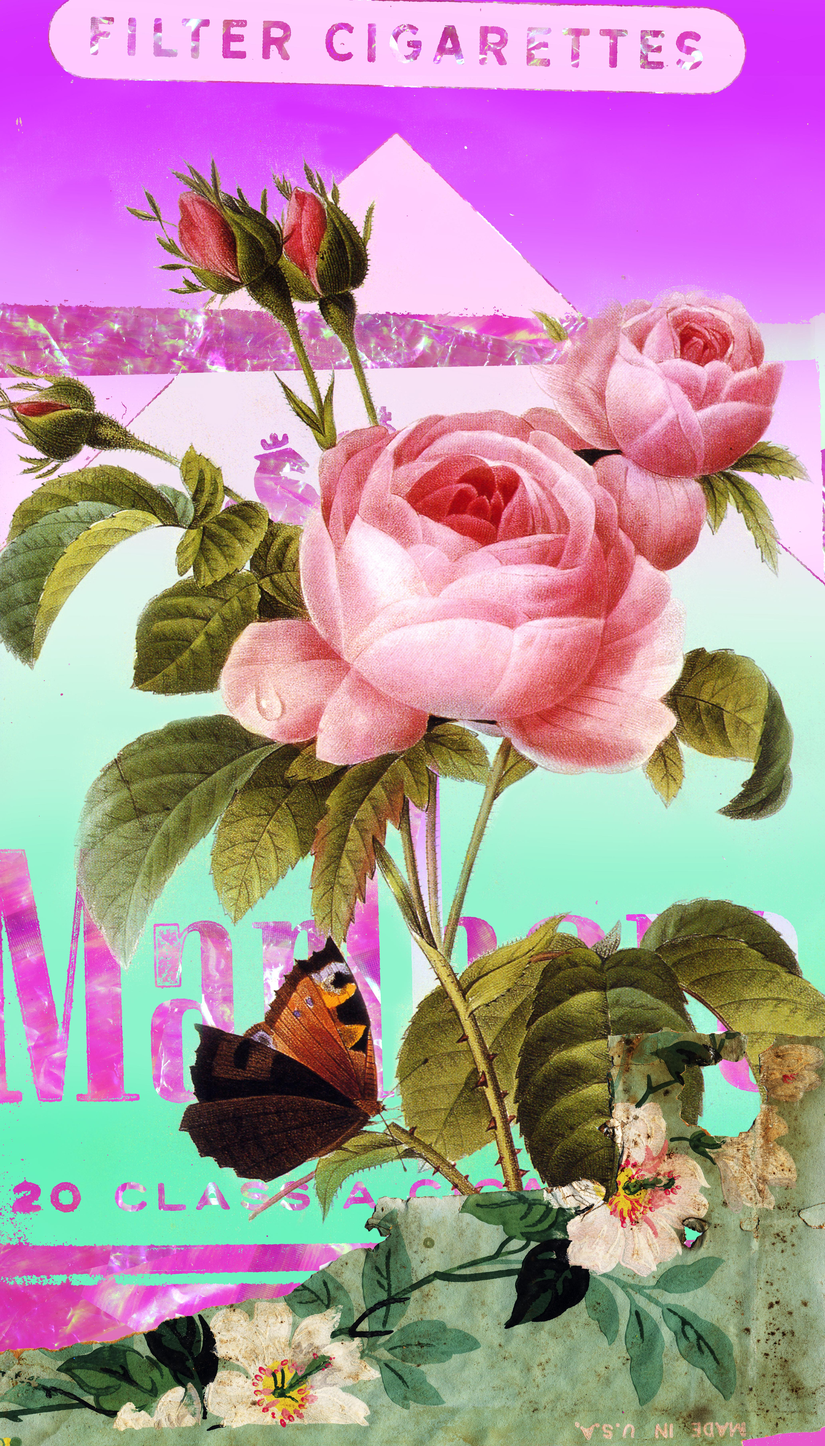
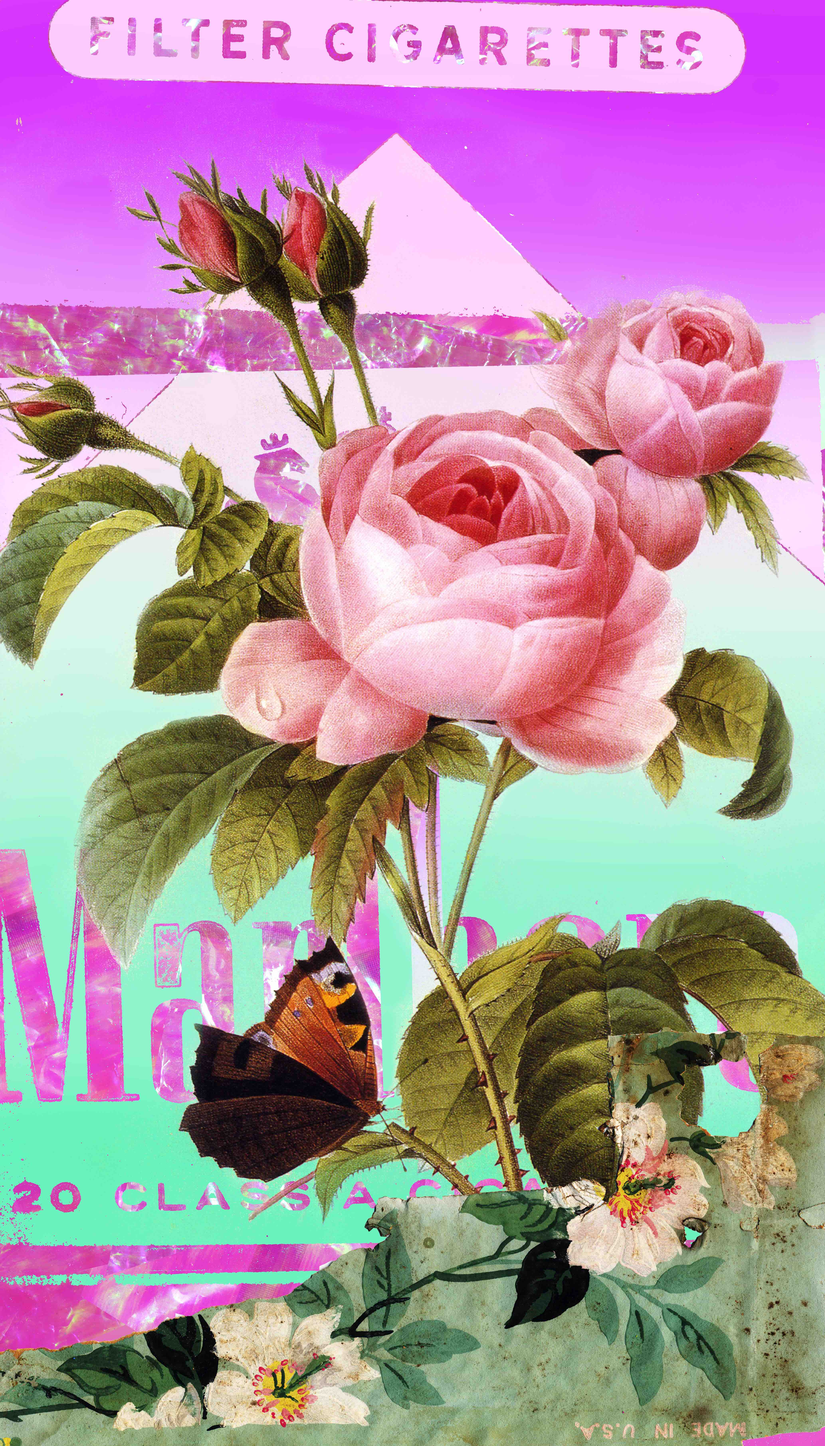
reducing file sizes for artwork and adjusting carousel as well as adding media queries for formatting

diff --git a/src/Pages/Portfolio/Portfolio.component.js b/src/Pages/Portfolio/Portfolio.component.js
@@ -12,7 +12,7 @@ export default class Portfolio extends Component {
         return (
             <div>
                 <h2 className="pageHeading">Portfolio</h2>
-                <h4 class="description text-center col-md-8 offset-md-2 col-sm-12">Click on the title below each image to launch the live site, or the GitHub link to view the repository!</h4>
+                <h4 class="description text-center col-md-8 offset-md-2 col-sm-12">Click on the title below each image to launch the live site, or the GitHub link to view the code!</h4>
                 <div id="carouselExampleIndicators" class="carousel slide container" data-interval="false" data-ride="carousel">
                     <ol class="carousel-indicators webDevIndicators">
                         <li data-target="#carouselExampleIndicators" data-slide-to="0" class="active"></li>
@@ -26,9 +26,9 @@ export default class Portfolio extends Component {
                         <div class="carousel-item webDev active">
                             <img class="portfolioImage d-block w-100" src={aggretsuko} alt="First slide" />
                             <div class="portfolioContent text-center">
-                                <a class="links" href="https://kat9513.github.io/TriviaGame/"><h2>Trivia Game</h2></a>
+                                <a class="links" href="https://kat9513.github.io/TriviaGame/" target="_blank"><h2>Trivia Game</h2></a>
                                 <p class="links text-center">
-                                    <a class="links" href="https://github.com/kat9513/TriviaGame">GitHub</a>
+                                    <a class="links" href="https://github.com/kat9513/TriviaGame" target="_blank">GitHub</a>
                                     <br />
                                     <p class="appDescription col-md-6 offset-md-3 col-sm-12">
                                     A Trivia game using JavaScript for the logic and jQuery to manipulate the HTML based on the Netflix series Aggretsuko.
@@ -39,9 +39,9 @@ export default class Portfolio extends Component {
                         <div class="carousel-item webDev">
                             <img class="portfolioImage d-block w-100" src={artsy} alt="Second slide" />
                             <div class="portfolioContent text-center">
-                                <a class="links" href="https://kat9513.github.io/GIPHY_APP/"><h2>Artsy</h2></a>
+                                <a class="links" href="https://kat9513.github.io/GIPHY_APP/" target="_blank"><h2>Artsy</h2></a>
                                 <p class="links text-center">
-                                    <a class="links" href="https://github.com/kat9513/GIPHY_APP">GitHub</a>
+                                    <a class="links" href="https://github.com/kat9513/GIPHY_APP" target="_blank">GitHub</a>
                                     <br/>
                                     <p class="appDescription col-md-6 offset-md-3 col-sm-12">
                                     An app that utilizes the GIPHY API to create a dynamic web page that populates with gifs of famous artist using JavaScript and jQuery to update the HTML on the site.
@@ -52,9 +52,9 @@ export default class Portfolio extends Component {
                         <div class="carousel-item webDev">
                             <img class="portfolioImage d-block w-100" src={burger} alt="Third slide" />
                             <div class="portfolioContent text-center">
-                                <a class="links" href="https://tranquil-island-56945.herokuapp.com/burgers"><h2>Eat da Burger!</h2></a>
+                                <a class="links" href="https://tranquil-island-56945.herokuapp.com/burgers" target="_blank"><h2>Eat da Burger!</h2></a>
                                 <p class="links text-center">
-                                    <a class="links" href="https://github.com/kat9513/burger">GitHub</a>
+                                    <a class="links" href="https://github.com/kat9513/burger" target="_blank">GitHub</a>
                                     <br />
                                     <p class="appDescription col-md-6 offset-md-3 col-sm-12">
                                     Eat-Da-Burger! is a restaurant app that lets users input the names of burgers they'd like to eat.
@@ -67,9 +67,9 @@ export default class Portfolio extends Component {
                         <div class="carousel-item webDev">
                             <img class="portfolioImage d-block w-100" src={crystal} alt="Third slide" />
                             <div class="portfolioContent text-center">
-                                <a class="links" href="https://kat9513.github.io/Crystal-Game/index.html"><h2>Crystal Collector</h2></a>
+                                <a class="links" href="https://kat9513.github.io/Crystal-Game/index.html" target="_blank"><h2>Crystal Collector</h2></a>
                                 <p class="links">
-                                    <a class="links" href="https://github.com/kat9513/Crystal-Game">GitHub</a>
+                                    <a class="links" href="https://github.com/kat9513/Crystal-Game" target="_blank">GitHub</a>
                                     <br />
                                     <p class="appDescription col-md-6 offset-md-3 col-sm-12">
                                     Crystal Collector is a number game written using HTML, CSS, JavaScript, and Bootstrap.</p>
@@ -80,9 +80,9 @@ export default class Portfolio extends Component {
                         <div class="carousel-item webDev">
                             <img class="portfolioImage d-block w-100" src={geo} alt="Third slide" />
                             <div class="portfolioContent text-center">
-                                <a class="links" href="https://kat9513.github.io/GeoCuisine/?"><h2>GeoCuisine</h2></a>
+                                <a class="links" href="https://kat9513.github.io/GeoCuisine/?" target="_blank"><h2>GeoCuisine</h2></a>
                                 <p class="links">
-                                    <a class="links" href="https://github.com/kat9513/fixingProject1">GitHub</a>
+                                    <a class="links" href="https://github.com/kat9513/fixingProject1" target="_blank">GitHub</a>
                                     <br />
                                     <p class="appDescription col-md-6 offset-md-3 col-sm-12">
                                     A web app that allows users to search for recipes based on ingredients they already have in their fridge and pantry in an effort to prevent food waste
@@ -95,9 +95,9 @@ export default class Portfolio extends Component {
                         <div class="carousel-item webDev">
                             <img class="portfolioImage d-block w-100" src={psychic} alt="Third slide" />
                             <div class="portfolioContent text-center">
-                                <a class="links" href="https://kat9513.github.io/Psychic-Game/"><h2>Psychic Game</h2></a>
+                                <a class="links" href="https://kat9513.github.io/Psychic-Game/" target="_blank"><h2>Psychic Game</h2></a>
                                 <p class="links">
-                                    <a class="links" href="https://github.com/kat9513/Psychic-Game">GitHub</a>
+                                    <a class="links" href="https://github.com/kat9513/Psychic-Game" target="_blank">GitHub</a>
                                     <br />
                                     <p class="appDescription col-md-6 offset-md-3 col-sm-12">
                                     The app randomly picks a letter, and the user has to guess which letter the app chose.

diff --git a/src/Pages/Artwork/Artwork.component.js b/src/Pages/Artwork/Artwork.component.js
@@ -1,18 +1,18 @@
 import React, { Component } from 'react';
 
-const Aquarium = require("../../Assets/Images/ArtWork/Aquarium.jpg")
-const Ravine = require("../../Assets/Images/ArtWork/ARavineInTheEarth.jpg")
-const BadGirl = require("../../Assets/Images/ArtWork/BadGirl.JPG")
-const BigHead = require("../../Assets/Images/ArtWork/BigHead.jpg")
+const Aquarium = require("../../Assets/Images/ArtWork/Aquarium2.jpg")
+const Ravine = require("../../Assets/Images/ArtWork/ARavineInTheEarth2.jpg")
+const BadGirl = require("../../Assets/Images/ArtWork/BadGirl2.jpg")
+const BigHead = require("../../Assets/Images/ArtWork/BigHead2.jpg")
 const Blam = require("../../Assets/Images/ArtWork/blam(1).png")
-const Blue = require("../../Assets/Images/ArtWork/BlueBonnet.jpg")
-const Bouqet = require("../../Assets/Images/ArtWork/Bouqet.jpg")
-const Cartoon = require("../../Assets/Images/ArtWork/CartoonStudy.JPG")
-const frog = require("../../Assets/Images/ArtWork/deadfrogg.jpg")
-const flowers = require("../../Assets/Images/ArtWork/FlowersMAC.JPG")
-const FlutterBy = require("../../Assets/Images/ArtWork/FlutterBy.JPG")
-const Hibiscus = require("../../Assets/Images/ArtWork/Hibiscus.JPG")
-const love = require("../../Assets/Images/ArtWork/LoveDroubt.jpg")
+const Blue = require("../../Assets/Images/ArtWork/BlueBonnet2.jpg")
+const Bouqet = require("../../Assets/Images/ArtWork/Bouqet2.jpg")
+const Cartoon = require("../../Assets/Images/ArtWork/CartoonStudy2.jpg")
+const frog = require("../../Assets/Images/ArtWork/deadfrogg2.jpg")
+const flowers = require("../../Assets/Images/ArtWork/FlowersMAC2.jpg")
+const FlutterBy = require("../../Assets/Images/ArtWork/FlutterBy2.jpg")
+const Hibiscus = require("../../Assets/Images/ArtWork/Hibiscus2.jpg")
+const love = require("../../Assets/Images/ArtWork/LoveDroubt2.jpg")
 const marlboro = require("../../Assets/Images/ArtWork/marlboro.jpg")
 
 export default class Artwork extends Component {
@@ -133,14 +133,14 @@ export default class Artwork extends Component {
                     </a>
                 </div>
                 <div>
-                    <p class="text-center">
+                    <p class="text-center artAbout">
                     I obtained my Bachelor's degree in Art from Austin College in Sherman, TX in 2017. 
                         During my senior year, I had the opportunity to study Art and the history of the Renaissance at Florence University of Art in Italy. It was during my time there that I became increasingly interested
                         in conceptual and contemporary artworks, and the interplay between art and technology in defining trends and taste.
                     </p>
                 </div>
                 <div class="text-center">
-                    <a class="instaLink" href="https://www.instagram.com/katie.higgins/">Check out more of my work on Instagram!</a>
+                    <a class="instaLink" href="https://www.instagram.com/katie.higgins/" target="_blank">Check out more of my work on Instagram!</a>
                 </div>
             </div>
         )

diff --git a/src/Pages/Contact/Contact.component.js b/src/Pages/Contact/Contact.component.js
@@ -11,8 +11,8 @@ export default class About extends Component {
                     katherine9513@gmail.com
                     </b>
                     </p>
-                    <a href="https://www.linkedin.com/in/katherine-higgins-03b239144/" class="card-link">LinkedIn</a>
-                    <a href="https://github.com/kat9513" class="card-link">GitHub</a>
+                    <a href="https://www.linkedin.com/in/katherine-higgins-03b239144/" class="card-link" target="_blank">LinkedIn</a>
+                    <a href="https://github.com/kat9513" class="card-link" target="_blank"npm>GitHub</a>
                 </div>
             </div>
         )

diff --git a/src/style.css b/src/style.css
@@ -85,7 +85,7 @@ a.instaLink{
     border-radius: 100%;
 }
 .artIndicators{
-    padding-bottom: 50px;
+    padding-bottom: 20px;
 }
 .webDevIndicators li{
     width: 10px;
@@ -116,7 +116,8 @@ img.artworkImage{
     object-fit: contain;
 }
 .artTitle{
-    padding-top: 40px;
+    padding-top: 30px;
+    padding-bottom: 15px;
 }
 @media only screen and (max-width: 768px) {
     .eMail {
@@ -124,6 +125,12 @@ img.artworkImage{
     }
     .appDescription{
         width: 100%;
+    }
+    .artAbout, .appDescription{
+        font-size: 10pt;
+    }
+    .description{
+        font-size: 12pt;
     }
 }
   
